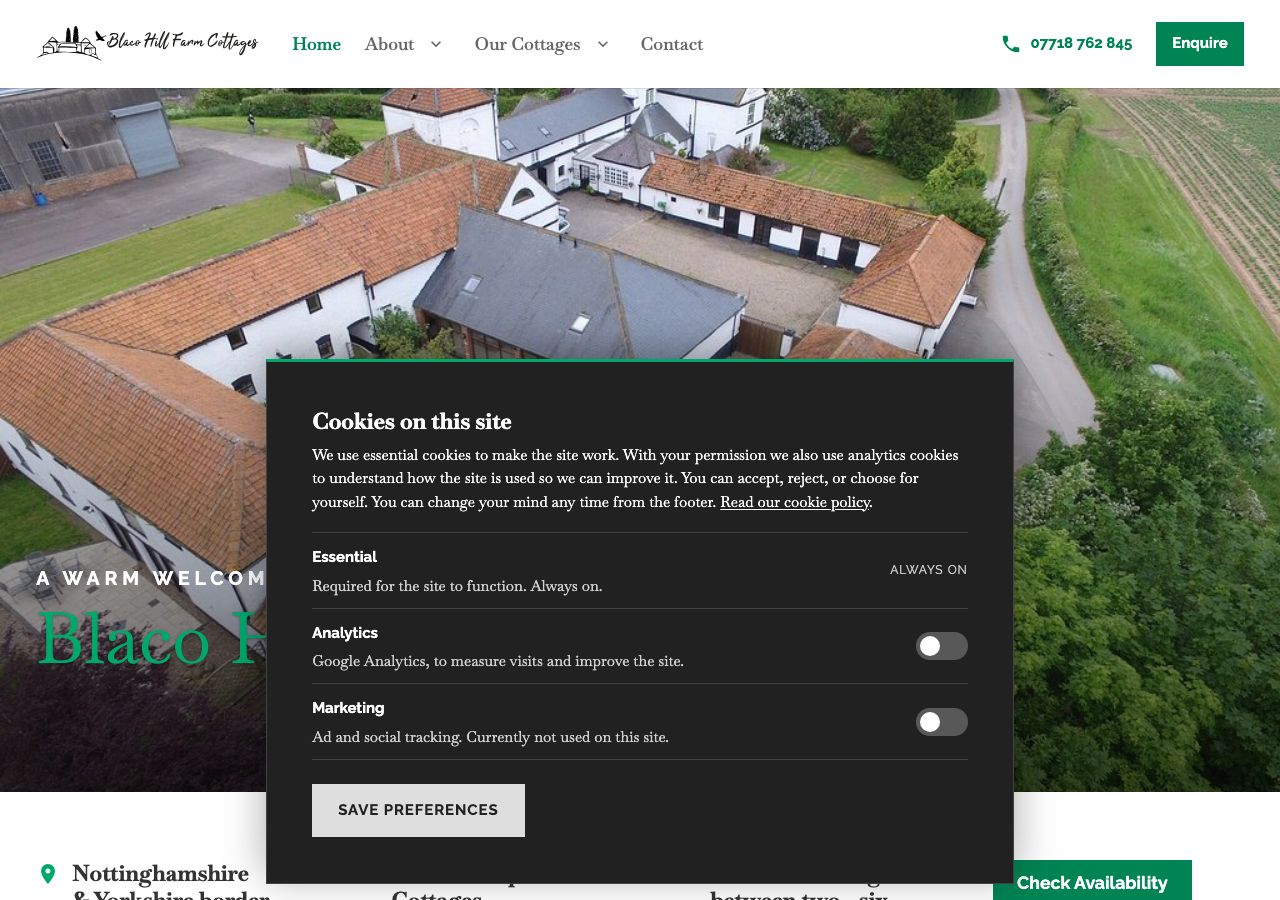
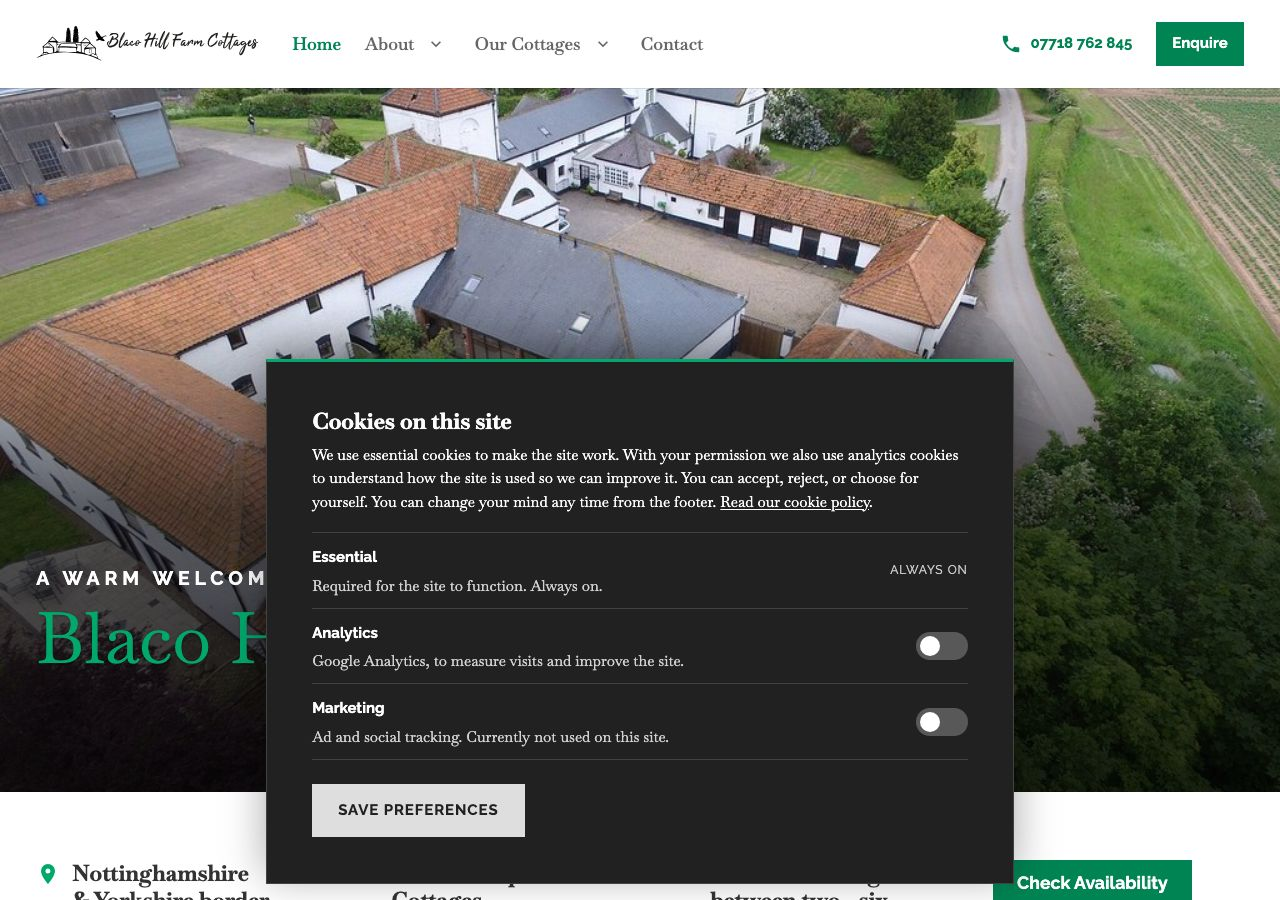
Darken the bottom of the home hero for the green line
The top 30% of each photo is untouched; the gradient deepens behind
the text (0.6 at 60%, 0.8 at the foot). Measured, the green
"Blaco Hill Farm Cottages" line now has at least 3:1 contrast with
the median of the photo behind it on all three slides at 390px and
1280px (it was 1.1 to 3.3:1). Home screenshots retaken.

diff --git a/app/components/blocks/Blocks.module.css b/app/components/blocks/Blocks.module.css
@@ -173,7 +173,10 @@
   position: absolute;
   inset: 0;
   z-index: -1;
-  background: linear-gradient(180deg, rgba(0, 0, 0, 0) 35%, rgba(0, 0, 0, 0.6) 100%);
+  /* The top 30% of each photo is untouched. The darkening sits behind the text:
+     measured, the green line has at least 3:1 contrast with the median of the
+     photo behind it on all three slides at 390px and 1280px. */
+  background: linear-gradient(180deg, rgba(0, 0, 0, 0) 30%, rgba(0, 0, 0, 0.6) 60%, rgba(0, 0, 0, 0.8) 100%);
   pointer-events: none;
 }
 
